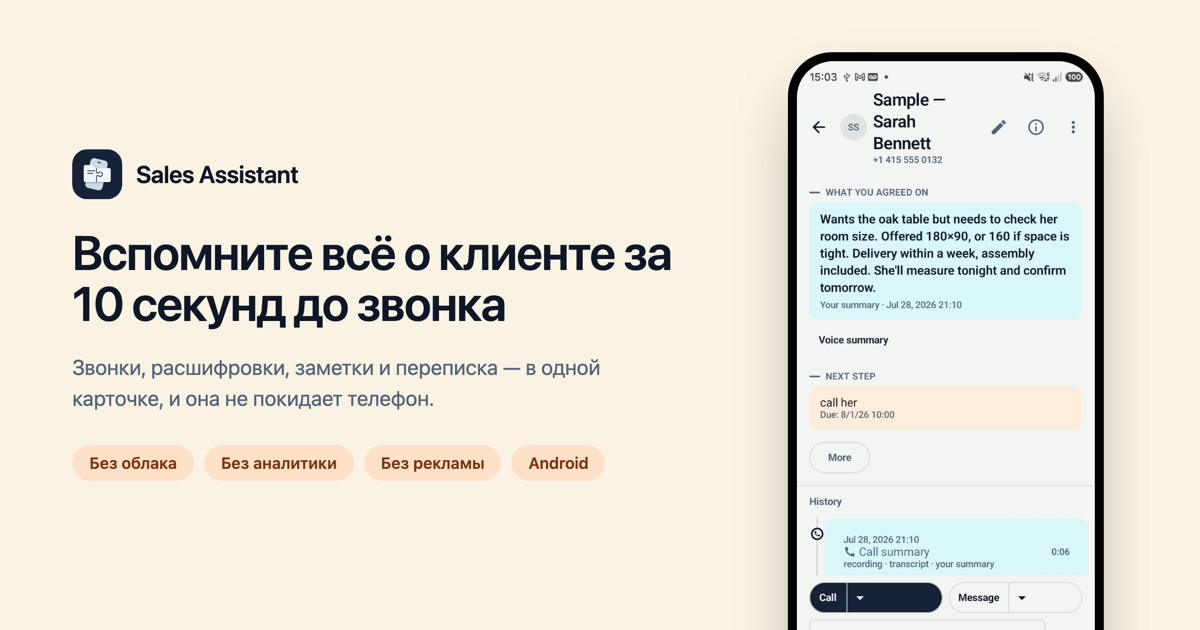
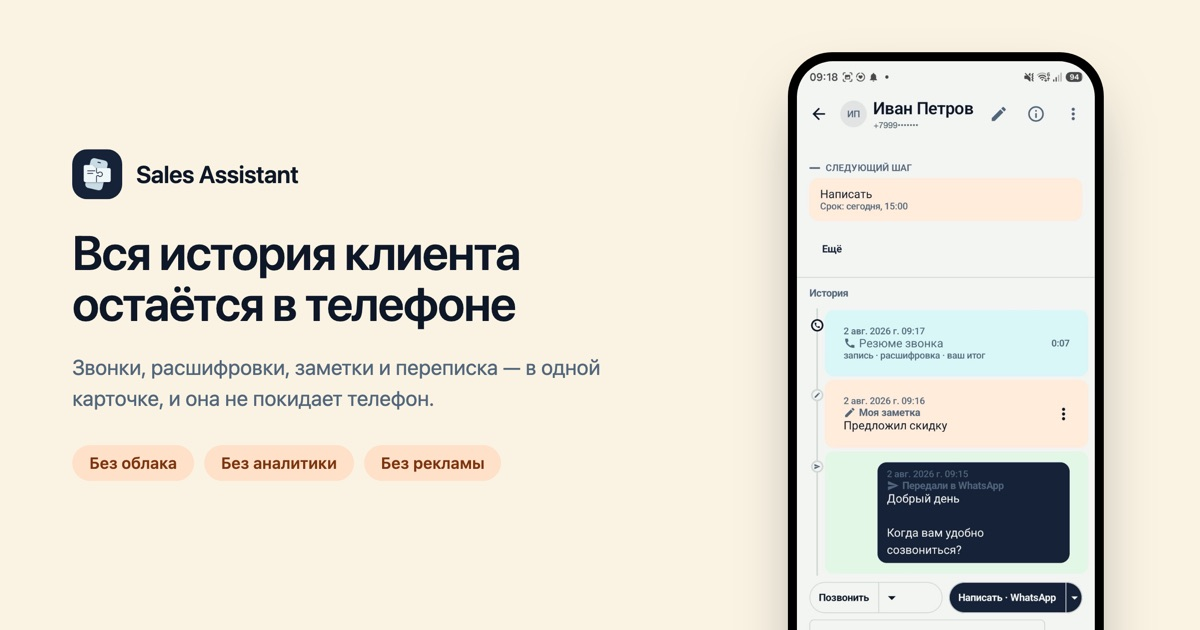
Русская версия на русских экранах, номера клиентов закрыты
На /ru/ стояли англоязычные скриншоты приложения: человек читал русский текст
и видел английский интерфейс. Заменены на шесть свежих русских экранов.

Телефоны на двух снимках замаскированы: под номер подложен цвет фона, взятый
из самого файла, и дорисован тем же шрифтом. Замазку не используем — в витрине
она читается как «что-то скрывают».

Слот «История» отдал экрану «Резюме звонка»: отдельного снимка ленты нет,
сама лента видна в карточке клиента из шапки, а фирменной функции на странице
не было ни одной картинки.

Обложка для соцсетей пересобрана на русской карточке клиента.

Changed region(s): [[0.6783, 0.0905, 0.925, 0.9952], [0.0617, 0.3619, 0.5858, 0.5429], [0.4008, 0.6937, 0.5242, 0.7841]]

diff --git a/ru/index.html b/ru/index.html
@@ -36,11 +36,12 @@
   "description": "Звонки, расшифровки, заметки и переписка в одной карточке клиента. Напоминания не дают забыть обещанный перезвон. Всё хранится на телефоне: без облака, аналитики и рекламы.",
   "image": "https://sales-assistant.app/img/og-cover-ru.jpg",
   "screenshot": [
-    "https://sales-assistant.app/img/client-card.jpg",
-    "https://sales-assistant.app/img/today.jpg",
-    "https://sales-assistant.app/img/clients.jpg",
-    "https://sales-assistant.app/img/history.jpg",
-    "https://sales-assistant.app/img/transcript.jpg"
+    "https://sales-assistant.app/img/client-card-ru.jpg",
+    "https://sales-assistant.app/img/today-ru.jpg",
+    "https://sales-assistant.app/img/clients-ru.jpg",
+    "https://sales-assistant.app/img/transcript-ru.jpg",
+    "https://sales-assistant.app/img/summary-ru.jpg",
+    "https://sales-assistant.app/img/export-ru.jpg"
   ],
   "featureList": [
     "Одна карточка на клиента: телефоны, заметки, хронология и следующий шаг",
@@ -127,7 +128,7 @@
     </div>
     <div>
       <div class="phone r hero-r">
-        <img src="/img/client-card.jpg" alt="Карточка клиента: о чём договорились, следующий шаг и история звонков и сообщений" width="738" height="1600" fetchpriority="high">
+        <img src="/img/client-card-ru.jpg" alt="Карточка клиента: о чём договорились, следующий шаг и история звонков и сообщений" width="738" height="1600" fetchpriority="high">
       </div>
     </div>
   </div>
@@ -239,25 +240,25 @@
     <div class="shots">
       <figure class="shot r">
         <div class="frame" style="border:2px solid oklch(.82 .07 60)">
-          <img src="/img/today.jpg" alt="Экран «Сегодня»: просроченные и ближайшие контакты" width="738" height="1600" loading="lazy">
+          <img src="/img/today-ru.jpg" alt="Экран «Сегодня»: просроченные и ближайшие контакты" width="738" height="1600" loading="lazy">
         </div>
         <figcaption><i style="color:oklch(.6 .15 60)"></i><span>Сегодня: что просрочено и с чем связаться</span></figcaption>
       </figure>
       <figure class="shot r">
         <div class="frame" style="border:2px solid oklch(.82 .07 195)">
-          <img src="/img/clients.jpg" alt="Список клиентов с поиском по имени или номеру" width="738" height="1600" loading="lazy">
+          <img src="/img/clients-ru.jpg" alt="Список клиентов с поиском по имени или номеру" width="738" height="1600" loading="lazy">
         </div>
         <figcaption><i style="color:oklch(.6 .15 195)"></i><span>Клиенты и поиск по имени или номеру</span></figcaption>
       </figure>
       <figure class="shot r">
         <div class="frame" style="border:2px solid oklch(.82 .07 285)">
-          <img src="/img/history.jpg" alt="История клиента: заметки, звонки и сообщения в одной ленте" width="738" height="1600" loading="lazy">
+          <img src="/img/summary-ru.jpg" alt="Резюме звонка: наговорили своими словами — приложение превратило в текст" width="738" height="1600" loading="lazy">
         </div>
-        <figcaption><i style="color:oklch(.6 .15 285)"></i><span>История: заметки, звонки и сообщения подряд</span></figcaption>
+        <figcaption><i style="color:oklch(.6 .15 285)"></i><span>Резюме звонка: наговорили — получился текст</span></figcaption>
       </figure>
       <figure class="shot r">
         <div class="frame" style="border:2px solid oklch(.82 .07 150)">
-          <img src="/img/transcript.jpg" alt="Расшифровка звонка с плеером и поиском по тексту" width="738" height="1600" loading="lazy">
+          <img src="/img/transcript-ru.jpg" alt="Расшифровка звонка с плеером и поиском по тексту" width="738" height="1600" loading="lazy">
         </div>
         <figcaption><i style="color:oklch(.6 .15 150)"></i><span>Расшифровка звонка с плеером</span></figcaption>
       </figure>
